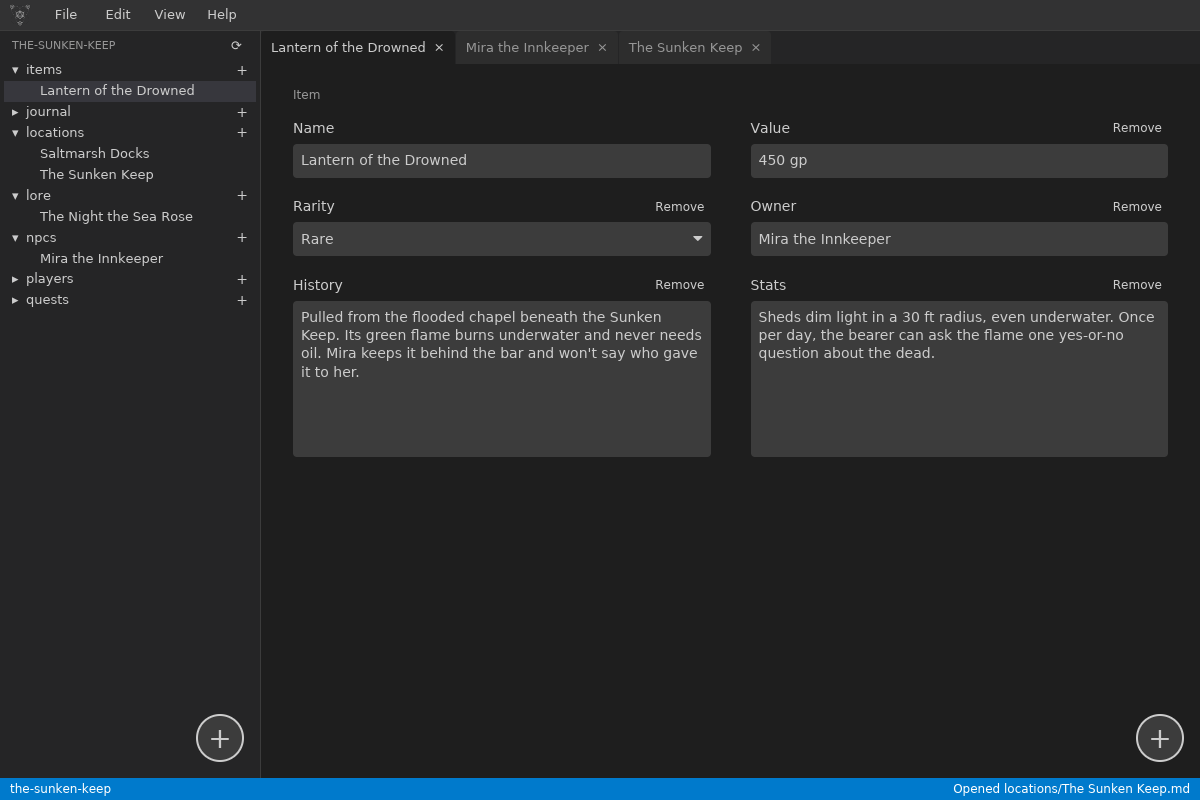
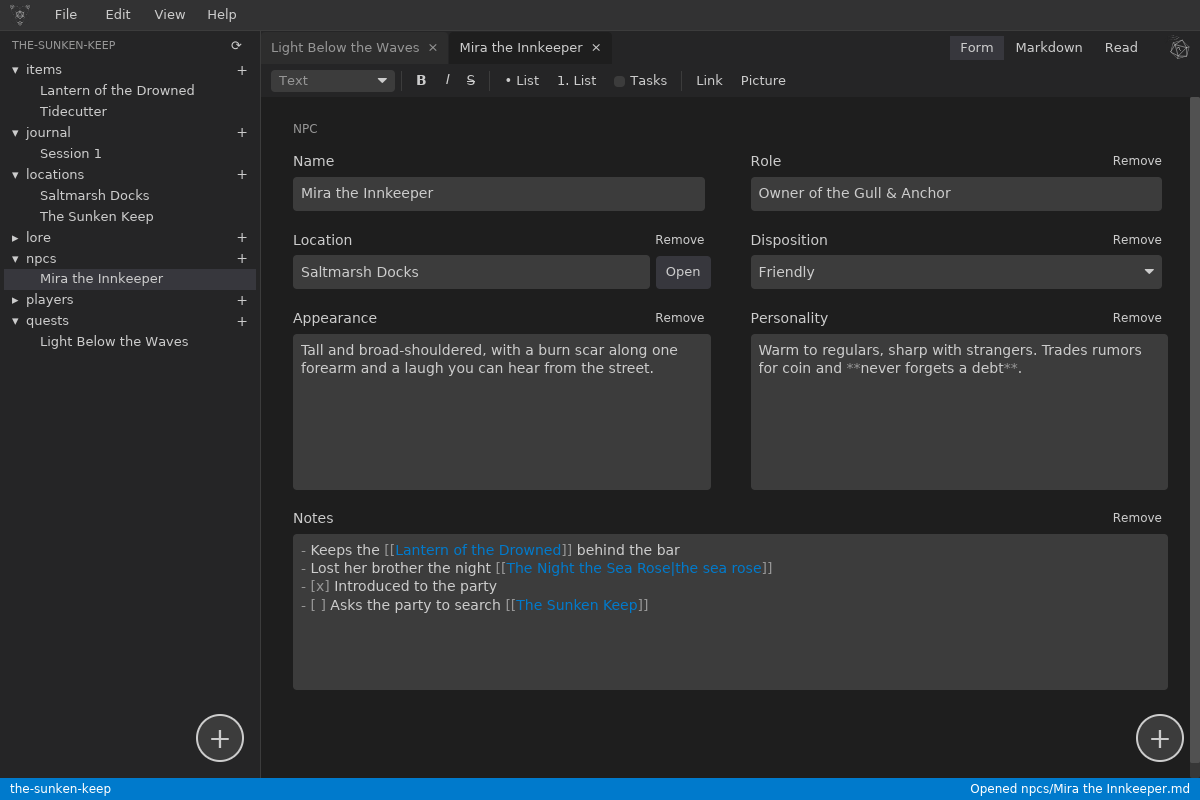
Update Dungeon Elements for v0.2.0
Refresh the project card and case study for the v0.2.0 release: links that
survive renames, backlinks, the reading view, the formatting toolbar, the
folder watcher, problem fixes, and the dice roller. Replace the v0.1
screenshots with ones from the new build.

Claude-Session: https://claude.ai/code/session_019egsWh2XxBf7hGhiHBtbpr

diff --git a/projects/dungeon-elements.html b/projects/dungeon-elements.html
@@ -3,7 +3,7 @@
 <head>
   <meta charset="UTF-8">
   <meta name="viewport" content="width=device-width, initial-scale=1.0">
-  <meta name="description" content="Dungeon Elements: a local-first campaign manager for tabletop RPGs by Ammon Turner, built in Rust with iced.">
+  <meta name="description" content="Dungeon Elements: a local-first campaign manager and wiki for tabletop RPGs by Ammon Turner, built in Rust with iced.">
   <title>Dungeon Elements | Ammon Turner</title>
   <link rel="stylesheet" href="../styles.css">
 </head>
@@ -24,10 +24,10 @@
     <section class="hero">
       <p class="hero-eyebrow"><a href="../index.html#projects">← All projects</a></p>
       <h1>Dungeon Elements</h1>
-      <p class="hero-subtitle">A local-first campaign manager for tabletop RPGs</p>
-      <p class="hero-description">A native desktop app in Rust that keeps every note as plain Markdown on your own drive.</p>
+      <p class="hero-subtitle">A local-first campaign manager and wiki for tabletop RPGs</p>
+      <p class="hero-description">A native desktop app in Rust that keeps every note as plain Markdown on your own drive, linked together like a wiki.</p>
       <div class="hero-cta">
-        <a href="https://github.com/NightMarethyu/dungeon_elements/releases" class="btn btn-primary" target="_blank" rel="noopener">Download v0.1.0</a>
+        <a href="https://github.com/NightMarethyu/dungeon_elements/releases" class="btn btn-primary" target="_blank" rel="noopener">Download v0.2.0</a>
         <a href="https://github.com/NightMarethyu/dungeon_elements" class="btn btn-secondary" target="_blank" rel="noopener">View the Code</a>
       </div>
     </section>
@@ -37,18 +37,18 @@
     <section class="section">
       <div class="container">
         <figure class="case-figure">
-          <img src="../images/dungeon-elements/form-view.png" alt="Dungeon Elements in the dark theme: a campaign's folders in a file tree on the left, three open tabs, and an item note shown as a form with Name, Value, Rarity, Owner, History, and Stats fields">
-          <figcaption>An item note opened as a form. The folder's type decides the fields, and the file on disk is still plain Markdown.</figcaption>
+          <img src="../images/dungeon-elements/reading-view.png" alt="Dungeon Elements in the dark theme showing an NPC note in the reading view: formatted headings and text, a wiki-style box of fields on the right, clickable links to other notes, and a task list">
+          <figcaption>An NPC note in the reading view: formatted like a wiki page, with its fields in a box on the right and links to other notes. On disk it's still plain Markdown.</figcaption>
         </figure>
 
         <div class="about-content">
           <div class="about-text">
             <h2>The Problem</h2>
             <p>
-              Game masters pour years into their campaigns: NPCs, locations, quests, lore, and session notes. Most campaign tools keep that work in <strong>a proprietary format on someone else's server</strong>, so it lasts only as long as the service does. Plain text files last forever, but a folder of loose notes has no structure and no checks.
+              Game masters pour years into their campaigns: NPCs, locations, quests, lore, and session notes. Most campaign tools keep that work in <strong>a proprietary format on someone else's server</strong>, so it lasts only as long as the service does. Plain text files last forever, but a folder of loose notes has no structure, no links, and no checks.
             </p>
             <p>
-              Dungeon Elements gives you both. A campaign is just a folder, and every note is a <strong>Markdown file with YAML front matter</strong> that Obsidian and any text editor can read. On top of that, each folder can define the fields its notes have, so an NPC opens as a form with a role, a location, and a disposition, and the app checks every file for anything it can't show as intended.
+              Dungeon Elements gives you both. A campaign is just a folder, and every note is a <strong>Markdown file with YAML front matter</strong> that Obsidian and any text editor can read. Each folder can define the fields its notes have, so an NPC opens as a form with a role, a location, and a disposition. Notes link to each other with <code>[[links]]</code> that <strong>survive renames</strong>, and every note shows what links back to it, so the campaign grows into a wiki of the world.
             </p>
           </div>
           <div class="about-highlights">
@@ -58,11 +58,11 @@
             </div>
             <div class="highlight">
               <span class="highlight-label">Stack</span>
-              <p>Rust 2024 • iced 0.14 • serde • YAML • resvg • GitHub Actions</p>
+              <p>Rust 2024 • iced 0.14 • serde • pulldown-cmark • syntect • notify • GitHub Actions</p>
             </div>
             <div class="highlight">
               <span class="highlight-label">Status</span>
-              <p>Early development, version 0.1.0 (October 2026)</p>
+              <p>Early development, version 0.2.0 (October 2026). About 17,000 lines of Rust and 111 unit tests.</p>
             </div>
             <div class="highlight">
               <span class="highlight-label">Platforms</span>
@@ -76,33 +76,34 @@
     <section class="section skills-section">
       <div class="container">
         <h2>How a Note Works</h2>
-        <p class="section-subtitle">The core idea is that the form and the file are two views of the same note. Nothing about a note lives anywhere except in its own Markdown file.</p>
+        <p class="section-subtitle">The form, the Markdown, and the reading view are three views of the same note. Nothing about a note lives anywhere except in its own file.</p>
 
         <div class="case-steps">
           <div class="case-step">
             <span class="case-step-number">1</span>
             <h3>A folder declares a type</h3>
-            <p>A <code>_type.yaml</code> in a folder lists the fields its notes have: text, numbers, choices, tags, <code>[[links]]</code> to other notes, checkboxes, or long text. New campaigns get a starter set for items, NPCs, locations, quests, lore, players, and a journal.</p>
+            <p>A <code>_type.yaml</code> in a folder lists the fields its notes have: text, numbers, choices, tags, checkboxes, long text, or links to notes in another folder. New campaigns get a starter set for items, NPCs, locations, quests, lore, players, and a journal.</p>
           </div>
           <div class="case-step">
             <span class="case-step-number">2</span>
-            <h3>The note opens as a form</h3>
-            <p>The parser splits the file into front matter and <code>##</code> sections. Short fields come from the front matter and long text from the sections, the same layout Obsidian uses. A note can add or drop fields of its own without changing the folder's type.</p>
+            <h3>Edit it as a form or as text</h3>
+            <p>Short fields come from the front matter and long text from <code>##</code> sections, the layout Obsidian uses. A formatting toolbar writes the Markdown, so nobody has to learn it, and the Markdown marks are dimmed so the words stand out.</p>
           </div>
           <div class="case-step">
             <span class="case-step-number">3</span>
-            <h3>Saving writes plain Markdown</h3>
-            <p>Saving turns the form back into YAML front matter and Markdown sections, keeping keys the form doesn't know about. One shortcut (Ctrl+E) shows the raw file, so there's never any hidden state.</p>
+            <h3>Read it like a wiki page</h3>
+            <p>The reading view renders headings, tables, task lists, pictures, embedded notes, and syntax-colored code, with the fields in an infobox. Click any paragraph to edit it in place, or tick a task box with a click.</p>
           </div>
         </div>
 
         <div class="case-notes">
           <h3>Design decisions worth calling out</h3>
           <ul>
-            <li><strong>The user's files are the source of truth.</strong> There is no database or cache to fall out of sync. If someone stops using the app, their campaign comes with them, untouched.</li>
-            <li><strong>Check, never repair.</strong> Opening a campaign checks every note and type file: broken front matter, a word in a number field, a choice that isn't an option, repeated sections, unknown types. Problems get a ⚠ and a plain-English explanation, but nothing is changed for the user.</li>
-            <li><strong>Edits from other apps are expected.</strong> When the window regains focus, the app compares each open file's modified time with the version it loaded. Clean tabs reload; tabs with unsaved changes ask which version to keep, and saving never silently overwrites an outside edit.</li>
-            <li><strong>Fail soft.</strong> A broken user theme file is skipped with a warning, and a note the form can't read opens as its Markdown source instead. The app should never crash on a file the user wrote.</li>
+            <li><strong>The user's files are the source of truth.</strong> There is no database to fall out of sync. If someone stops using the app, their campaign comes with them, untouched.</li>
+            <li><strong>Links that never break.</strong> Renaming or moving a note rewrites every link to it across the campaign: in note text, in front matter fields, and in open tabs with unsaved changes. Shown text, heading links, embeds, and aliases are kept, and names are written back with the escaping YAML needs.</li>
+            <li><strong>Edits from other apps are expected.</strong> The campaign folder is watched, so notes edited, renamed, or deleted in Obsidian or a file manager are picked up right away: tabs follow renamed notes, links are updated, and saving never silently overwrites an outside edit.</li>
+            <li><strong>Check, then offer fixes.</strong> Every note is checked for problems like broken front matter, a word in a number field, or a link to a note that was renamed elsewhere. Each problem comes with fixes to pick from (link the note it probably meant, create the missing one, or ignore it), and checks re-run as you type.</li>
+            <li><strong>Any name works.</strong> Note names can hold apostrophes, quotes, colons, accents, and emoji. The app keeps the name as typed and picks a file name that's valid on Windows, macOS, and Linux, adding an alias so links still find it.</li>
           </ul>
         </div>
       </div>
@@ -113,29 +114,29 @@
         <h2>The App</h2>
         <div class="case-gallery">
           <figure class="case-figure">
-            <img src="../images/dungeon-elements/types-dialog.png" alt="The Edit > Types dialog: campaign folders on the left, and the Item type's fields on the right with their key, kind, width, and options" loading="lazy">
-            <figcaption>Edit &gt; Types changes the fields of every note in a folder: names, keys, kinds, widths, options, and order.</figcaption>
+            <img src="../images/dungeon-elements/link-suggestions.png" alt="A quest note's Objectives field while typing a new task with an open [[ link; a bar under the editor suggests four notes to link to" loading="lazy">
+            <figcaption>Typing <code>[[</code> closes the link and suggests notes by name, alias, or file name. Pressing Enter in a task list started the next task.</figcaption>
           </figure>
           <figure class="case-figure">
-            <img src="../images/dungeon-elements/file-check.png" alt="The Problems dialog explaining that a note's Rarity is Mythic, which isn't one of its options, with a warning icon on the note in the file tree" loading="lazy">
-            <figcaption>A note edited by hand with a rarity that isn't an option. The file tree marks it, and the Problems list says exactly what's wrong.</figcaption>
+            <img src="../images/dungeon-elements/backlinks.png" alt="The end of an NPC's reading view: a Linked from section listing four notes grouped by kind, each with the line or field that links to the NPC" loading="lazy">
+            <figcaption>"Linked from" lists every note that links here, grouped by kind, with the line or field each link is in.</figcaption>
           </figure>
         </div>
         <div class="about-content case-split">
           <div class="about-text">
             <p>
-              The interface is built with <strong>iced</strong>, a native Rust GUI library that follows the Elm architecture: all state lives in one model, every input is a message, and the view is a pure function of the state. That made features like tabs, unsaved-change prompts, and reloading files on focus predictable to add.
+              The interface is built with <strong>iced</strong>, a native Rust GUI library that follows the Elm architecture: all state lives in one model, every input is a message, and the view is a pure function of the state. That made features like tabs, unsaved-change prompts, right-click menus, and live reloading from disk predictable to add.
             </p>
             <p>
-              Every color comes from a <strong>YAML theme</strong> with named roles like sidebar, tabs, fields, and accent. Dark and High Contrast ship with the app, users can drop their own theme files in a config folder, and any color a theme leaves out falls back to its base. The logo is an SVG recolored to match the theme.
+              The built-in <strong>dice roller</strong> parses expressions like <code>2d6+3</code>, <code>d%</code>, and <code>4d6kh3</code>, with advantage and disadvantage. Fields with dice in them, like a sword's damage, get roll buttons right on the note.
             </p>
             <p>
-              The app ships as <strong>a single file</strong>: themes, templates, and the logo are compiled in. The release build uses link-time optimization and is stripped, and a GitHub Actions workflow builds the universal macOS app on Apple's runners and merges the Apple silicon and Intel builds with <code>lipo</code>.
+              The app ships as <strong>a single file</strong> with themes and templates compiled in. Every color comes from a user-editable YAML theme, including code highlighting. A GitHub Actions workflow builds the universal macOS app and merges the Apple silicon and Intel builds with <code>lipo</code>.
             </p>
           </div>
           <figure class="case-figure">
-            <img src="../images/dungeon-elements/markdown-source.png" alt="The same item note shown as its Markdown source: YAML front matter with type, name, value, rarity, and owner, then History and Stats sections" loading="lazy">
-            <figcaption>The same note as its Markdown source (Ctrl+E). This is exactly what's on disk.</figcaption>
+            <img src="../images/dungeon-elements/dice-roller.png" alt="A sword's reading view with Attack and Damage roll buttons in its box of fields, and the dice roller open at the bottom showing an attack rolled with advantage: 12, a crossed-out 9, plus 7, equals 19" loading="lazy">
+            <figcaption>Rolling a sword's attack with advantage straight from its fields. The lower die is crossed out.</figcaption>
           </figure>
         </div>
       </div>
@@ -151,15 +152,15 @@
           </div>
           <div class="skill-category">
             <h3>Small, focused modules</h3>
-            <p>Parsing notes, content types, the form, file checks, themes, and the campaign tree each live in their own module, with unit tests on the parts that touch files, like front matter parsing, content types, and the file checker.</p>
+            <p>Note parsing, links, backlinks, file checks and fixes, the folder watcher, the reading view, and the dice roller each live in their own module, with 111 unit tests on the logic that reads and rewrites users' files.</p>
           </div>
           <div class="skill-category">
             <h3>Interoperable by design</h3>
-            <p>Notes use the same front matter and <code>[[link]]</code> format as Obsidian, and tags are stored as a YAML list so Obsidian reads them as tags. Users can switch between the two tools freely.</p>
+            <p>Notes use Obsidian's front matter, <code>[[link]]</code>, alias, and embed formats, so users can switch between the two tools freely. Hidden folders like <code>.obsidian</code> are left alone.</p>
           </div>
           <div class="skill-category">
             <h3>Planned and documented</h3>
-            <p>The work follows a phased plan with checklists, every release is recorded in a Keep a Changelog file with semantic versions, and a release guide covers packaging for all three platforms.</p>
+            <p>The work follows a phased plan with checklists, every release is recorded in a Keep a Changelog file with semantic versions and known limitations, and a release guide covers packaging for all three platforms.</p>
           </div>
         </div>
       </div>
@@ -171,22 +172,22 @@
         <div class="about-content">
           <div class="about-text">
             <p>
-              Version 0.1.0 finishes <strong>Phase 0, <em>Call to Action</em></strong>: the app, campaigns, typed notes, file checks, themes, and releases for three platforms. Phase 1 turns the notes into <strong>a connected wiki of the world</strong>, and Phase 2 adds drawing and generator tools for building it.
+              Version 0.1.0 finished <strong>Phase 0, <em>Call to Action</em></strong>: campaigns, typed notes, file checks, themes, and releases for three platforms. Version 0.2.0 finishes <strong>Phase 1, <em>Inciting Incident</em></strong>: links, backlinks, the reading view, the formatting toolbar, and the dice roller. The next phases build tools for running the game on top of that wiki.
             </p>
           </div>
           <div class="about-text">
             <ul class="case-list">
-              <li>Rendered Markdown with live preview</li>
-              <li>Clickable <code>[[links]]</code> that survive renames</li>
-              <li>Highlight a name and choose "Add link" to create a page</li>
-              <li>A built-in dice roller</li>
-              <li>A basic SVG map editor</li>
+              <li>Player, NPC, and quest management</li>
               <li>Name and roll table generators</li>
+              <li>A journaling tool for solo play and session notes</li>
+              <li>An SVG map editor, with pins that link to notes</li>
+              <li>Map generators, from dungeons up to whole worlds</li>
+              <li>Campaign templates and player handouts</li>
             </ul>
           </div>
         </div>
         <div class="hero-cta case-cta">
-          <a href="https://github.com/NightMarethyu/dungeon_elements/releases" class="btn btn-primary" target="_blank" rel="noopener">Download v0.1.0</a>
+          <a href="https://github.com/NightMarethyu/dungeon_elements/releases" class="btn btn-primary" target="_blank" rel="noopener">Download v0.2.0</a>
           <a href="https://github.com/NightMarethyu/dungeon_elements" class="btn btn-secondary" target="_blank" rel="noopener">View the Code</a>
         </div>
       </div>

diff --git a/index.html b/index.html
@@ -131,15 +131,15 @@
         <div class="projects-grid">
           <article class="project-card featured">
             <a href="projects/dungeon-elements.html" class="project-image">
-              <img src="images/dungeon-elements/form-view.png" alt="Dungeon Elements in the dark theme: a campaign's folders in a file tree, three open tabs, and an item note shown as a form" loading="lazy">
+              <img src="images/dungeon-elements/reading-view.png" alt="Dungeon Elements in the dark theme: an NPC note in the reading view, formatted like a wiki page with a box of fields and links to other notes" loading="lazy">
             </a>
             <div class="project-header">
               <h3>Dungeon Elements</h3>
-              <span class="project-status">Early Development · v0.1</span>
+              <span class="project-status">Early Development · v0.2</span>
             </div>
             <div class="project-body">
-              <p>A local-first campaign manager for tabletop RPGs, built as a native desktop app in Rust. A campaign is just a folder, and every note is a Markdown file with YAML front matter that Obsidian and any text editor can read, so a game master's years of work never get locked into a proprietary format or someone else's server.</p>
-              <p>Folders define the fields their notes have, so an NPC or an item opens as a form and saves back to plain Markdown. On load, the app checks every file for anything it can't show as intended and explains each problem without changing a thing, and it notices files edited in other apps without ever silently overwriting them. Custom YAML color themes, and single-file releases for Windows, Linux, and macOS built with GitHub Actions.</p>
+              <p>A local-first campaign manager and wiki for tabletop RPGs, built as a native desktop app in Rust. A campaign is just a folder, and every note is a Markdown file with YAML front matter that Obsidian and any text editor can read, so a game master's years of work never get locked into a proprietary format or someone else's server.</p>
+              <p>Folders define the fields their notes have, so an NPC opens as a form, and a reading view shows it like a wiki page. Notes link with <code>[[links]]</code> that are rewritten across the campaign when a note is renamed or moved, even from another app, and each note lists what links back to it. A file watcher, checks with one-click fixes, a formatting toolbar, and a dice roller that parses expressions like <code>4d6kh3</code>. About 17,000 lines of Rust with 111 unit tests, released for Windows, Linux, and macOS.</p>
               <div class="project-tech">
                 <span class="tech">Rust</span>
                 <span class="tech">iced</span>
